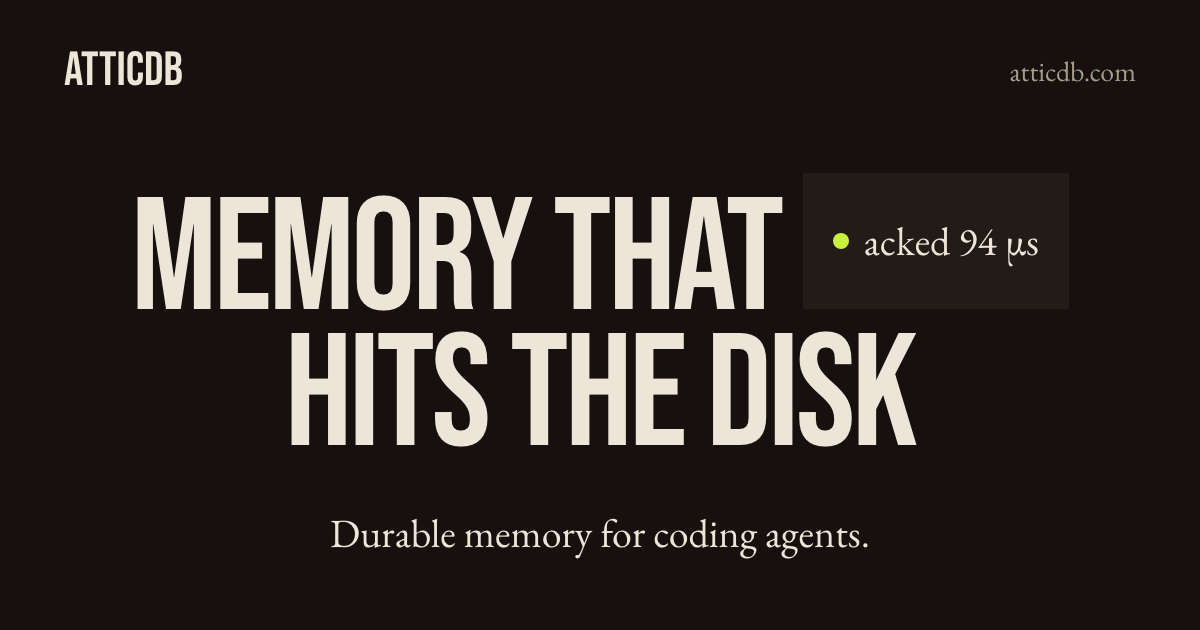
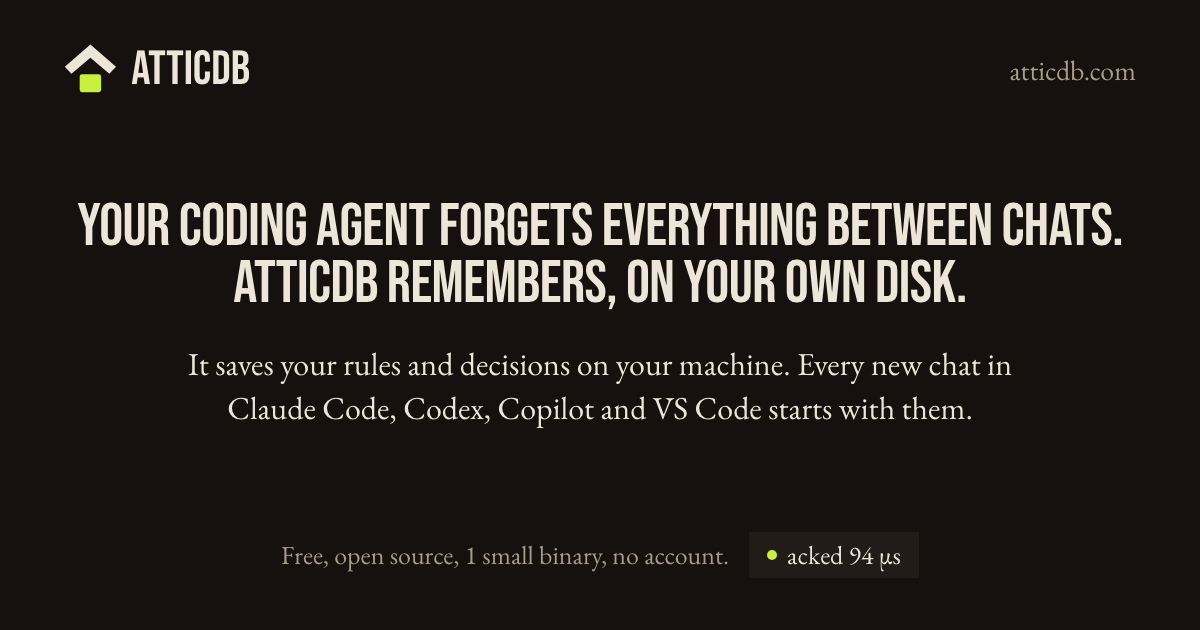
feat(site): update og.png with the roof-and-box mark and new hero
og.html adds the cream-and-lime roof-and-box mark next to ATTICDB and updates the headline and sub copy to match the current home hero. make-og.sh re-renders public/og.png at 1200x630.

diff --git a/site/scripts/og.html b/site/scripts/og.html
@@ -23,17 +23,20 @@
         --ink: #EDE6D8;
         --muted: #A89C8C;
         --accent: #C8F03C;
-        --step-small: 24px;
         --step-body: 28px;
-        --step-lead: 40px;
+        --step-lead: 32px;
         --step-head: 48px;
-        --step-display: 160px;
+        --step-display: 60px;
       }
       * { box-sizing: border-box; margin: 0; }
       body {
         width: 1200px;
         height: 630px;
         overflow: hidden;
+        display: flex;
+        flex-direction: column;
+        justify-content: space-between;
+        padding: 44px 64px 52px;
         background: var(--bg);
         color: var(--ink);
         font-family: "EB Garamond", Georgia, serif;
@@ -44,67 +47,95 @@
         display: flex;
         align-items: center;
         justify-content: space-between;
-        padding: 42px 64px 0;
       }
       .brand {
+        display: inline-flex;
+        align-items: center;
+        gap: 0.3em;
         font-family: "Bebas Neue", Impact, sans-serif;
         font-size: var(--step-head);
+        line-height: 1;
+      }
+      .mark {
+        width: 1.1em;
+        height: 1.1em;
+        flex: none;
+        transform: translateY(-2px);
       }
       .domain { color: var(--muted); }
-      main { padding-top: 74px; text-align: center; }
+      main {
+        text-align: center;
+      }
       h1 {
         font-family: "Bebas Neue", Impact, sans-serif;
         font-size: var(--step-display);
         font-weight: 400;
-        line-height: 0.85;
-        letter-spacing: -0.02em;
+        line-height: 0.96;
+        letter-spacing: -0.01em;
+        text-transform: uppercase;
       }
-      .line { display: block; white-space: nowrap; }
-      .ack {
-        display: inline-block;
-        overflow: hidden;
-        width: 1.66em;
-        height: 0.85em;
-        margin-left: 0.14em;
-        vertical-align: baseline;
-        background: var(--surface);
-        letter-spacing: 0;
+      .line {
+        display: block;
+        white-space: nowrap;
       }
-      .ack-inner {
+      .summary {
+        max-width: 56ch;
+        margin: 28px auto 0;
+        font-size: var(--step-lead);
+        line-height: 1.38;
+      }
+      footer {
         display: flex;
-        height: 100%;
         align-items: center;
         justify-content: center;
-        gap: 0.09em;
-        padding-inline: 0.12em;
+        gap: 20px;
+        color: var(--muted);
+        font-size: 26px;
       }
-      .light {
-        flex: none;
-        width: 0.1em;
-        height: 0.1em;
-        border-radius: 50%;
-        background: var(--accent);
-      }
-      .ack-text {
-        font-family: "EB Garamond", Georgia, serif;
-        font-size: var(--step-lead);
+      .ack {
+        display: inline-flex;
+        align-items: center;
+        gap: 10px;
+        height: 46px;
+        padding-inline: 18px;
+        background: var(--surface);
+        color: var(--ink);
+        font-size: 26px;
         line-height: 1;
         font-variant-numeric: tabular-nums lining-nums;
       }
-      .summary { margin-top: 42px; font-size: var(--step-lead); }
+      .light {
+        flex: none;
+        width: 10px;
+        height: 10px;
+        border-radius: 50%;
+        background: var(--accent);
+      }
     </style>
   </head>
   <body>
     <header>
-      <span class="brand">ATTICDB</span>
+      <span class="brand">
+        <svg class="mark" viewBox="0 0 64 64" aria-hidden="true">
+          <path d="M32 3 63 30 55 38.5 32 19 9 38.5 1 30z" fill="var(--ink)" />
+          <rect x="19" y="39" width="26" height="22" rx="3" fill="var(--accent)" />
+        </svg>
+        ATTICDB
+      </span>
       <span class="domain">atticdb.com</span>
     </header>
     <main>
       <h1>
-        <span class="line">MEMORY THAT<span class="ack"><span class="ack-inner"><span class="light"></span><span class="ack-text">acked 94 µs</span></span></span></span>
-        <span class="line">HITS THE DISK</span>
+        <span class="line">Your coding agent forgets everything between chats.</span>
+        <span class="line">AtticDB remembers, on your own disk.</span>
       </h1>
-      <p class="summary">Durable memory for coding agents.</p>
+      <p class="summary">
+        It saves your rules and decisions on your machine. Every new chat in Claude Code, Codex, Copilot and VS Code starts with them.
+      </p>
     </main>
+    <footer>
+      <span>Free, open source, 1 small binary, no account.</span>
+      <span class="ack"><span class="light"></span><span>acked 94 µs</span></span>
+    </footer>
   </body>
 </html>

diff --git a/site/src/lib/seo.ts b/site/src/lib/seo.ts
@@ -42,7 +42,7 @@ const OG_IMAGE = {
   url: "/og.png",
   width: 1200,
   height: 630,
-  alt: "AtticDB: memory that hits the disk. Acked 94 µs.",
+  alt: "Your coding agent forgets everything between chats. AtticDB remembers, on your own disk.",
 };
 
 // Next replaces a layout's alternates with a page's, so every page repeats the feed link.
